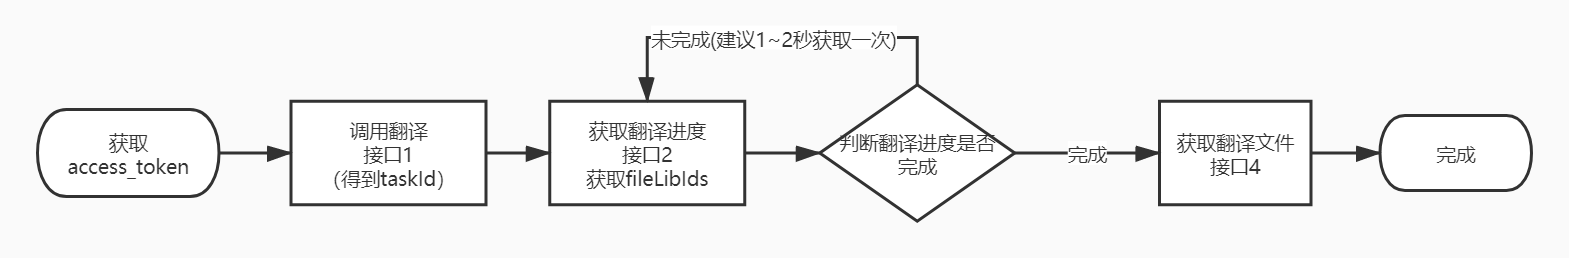
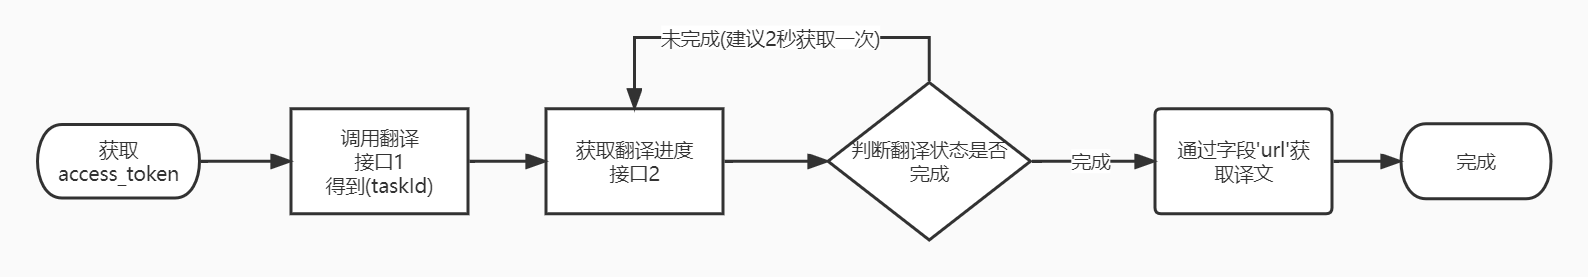
yfb

Changed region(s): [[0.0, 0.2791, 0.9994, 0.8062], [0.3748, 0.093, 0.5934, 0.2171], [0.5621, 0.7132, 0.6246, 0.8682]]

diff --git a/source/conf.py b/source/conf.py
@@ -17,9 +17,9 @@
 
 # -- Project information -----------------------------------------------------
 
-# project = '云译通接口文档'
-# copyright = '2020, 译讯科技'
-# author = '译讯科技'
+# project = '接口文档'
+# copyright = '2022, 语服邦'
+# author = '语服邦'
 
 project = 'translatedoc'
 copyright = ''
@@ -81,7 +81,7 @@ html_theme_options = {
     # 'style_external_links': True,
     # 'vcs_pageview_mode': '',
     # 'style_nav_header_background': 'white',
-    ## Toc options
+    # Toc options
     # 'collapse_navigation': True,
     # 'sticky_navigation': True,
     # 'navigation_depth': 4,

diff --git a/source/overview/StatusCode.rst b/source/overview/StatusCode.rst
@@ -30,8 +30,8 @@
 0       System error.                                            系统繁忙,此时请开发者稍候再试
 40001   The account has been logged in elsewhere.                账户已在别处登录
 40002   Get access_token error.                                  获取令牌失败
-40003   Not enough words.                                        字数不够
-40004   Number of word has expired.                              字数已经过期
+40003   Not enough words.                                        额度不足
+40004   Number of word has expired.                              额度已过期
 40005   Language selection Error.                                语言选择错误
 40006   File has no words.                                       文件里没有字
 40007   Pdf has Encrypted.                                       pdf文件已加密
@@ -52,5 +52,5 @@
 40022   Specified argument was out of the range of valid values. 指定的参数不在有效值范围内     
 40024   File not found.                                          文件不存在
 40025   File convert fail.                                       文件转换失败       
-40026   The source language is the same as the target language.  源语言与目标语言相同       
+40026   The source language is the same as the target language.  源语言与目标语言相同   
 ======= ======================================================== =======================================

diff --git a/source/memorylib/memorylib.rst b/source/memorylib/memorylib.rst
@@ -92,7 +92,7 @@
        "errmsg": ""
       }
 
-**1.3. 获取 第三方用户Id 对应的 译讯用户Id**
+**1.3. 获取 第三方用户Id 对应的 用户Id**
 
 .. _请求地址-2:
 
@@ -120,7 +120,7 @@
    ========= ======== =======================================
    isSuccess bool     返回结果状态。true：正常；false：错误。
    msg       string   若充值失败，则返回错误信息
-   data      object   译讯的用户 Id，用于创建聊天
+   data      object   用户 Id，用于创建聊天
    ========= ======== =======================================
 
 ..
@@ -128,7 +128,7 @@
    ========= ======== =======================================
    返回字段  字段类型 说明
    ========= ======== =======================================
-   openId    string   第三方用户 Id 对应的译讯用户 id
+   openId    string   第三方用户 Id 对应的用户 id
    ========= ======== =======================================
 
    正常返回

diff --git a/source/translate/TranslateFile.rst b/source/translate/TranslateFile.rst
@@ -98,6 +98,7 @@ task_id          string   任务ID
 task_status_type int      状态，包括0:进行中，1:完成，2:取消，3:错误
 percent          double   进度值
 file_lib_ids     array    文件id数组，需要根据此id获取翻译后的文件信息
+url              array    文件下载地址(需要添加认证信息)
 error_code       string   :doc:`错误码 </../overview/StatusCode>`
 error_msg        string   错误信息
 ================ ======== ============================================
@@ -117,6 +118,7 @@ error_msg        string   错误信息
          "file_lib_ids": [
             1
          ],
+         "url"："https://transapi.dl.wiki/files/NsSgHjhWHXf4JDq",
          "error_code": -1,
          "error_msg": null
       }

diff --git a/source/index.rst b/source/index.rst
@@ -1,4 +1,4 @@
-.. 云译通接口文档 documentation master file, created by
+.. 接口文档 documentation master file, created by
    sphinx-quickstart on Wed Nov 11 10:28:59 2020.
    You can adapt this file completely to your liking, but it should at least
    contain the root `toctree` directive.
